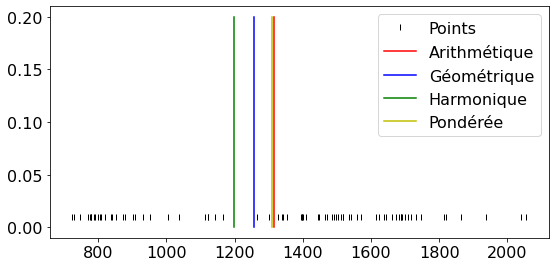
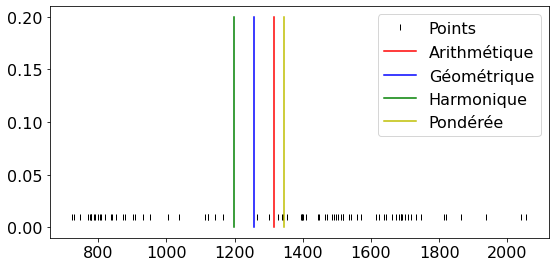
Update documentation

Changed region(s): [[0.4901, 0.0599, 0.5207, 0.839]]

diff --git a/searchindex.js b/searchindex.js
@@ -1,1 +1,1 @@
-Search.setIndex({docnames:["Rappels","Stats","TP1_statsDescriptives","genindex","intro","statsdescriptives"],envversion:{"sphinx.domains.c":2,"sphinx.domains.changeset":1,"sphinx.domains.citation":1,"sphinx.domains.cpp":3,"sphinx.domains.index":1,"sphinx.domains.javascript":2,"sphinx.domains.math":2,"sphinx.domains.python":3,"sphinx.domains.rst":2,"sphinx.domains.std":2,"sphinx.ext.intersphinx":1,"sphinxcontrib.bibtex":7,sphinx:56},filenames:["Rappels.md","Stats.md","TP1_statsDescriptives.ipynb","genindex.md","intro.md","statsdescriptives.md"],objects:{},objnames:{},objtypes:{},terms:{"0":[0,2,5],"0017884644338933538":2,"01":5,"010286405751158675":2,"05":5,"057906794285899":2,"059619131674428574":2,"07":0,"0729570890783":5,"098":0,"1":[0,1,2,5],"10":[0,2,5],"100":2,"1000":5,"10000":0,"103":2,"1040":2,"1041":2,"1042":2,"1043":2,"1044":2,"11":[2,5],"115":2,"1198":5,"12":[0,2,5],"121":0,"122":0,"1258":5,"1308":5,"1315":[],"1316":5,"1399":5,"14":[0,2],"141":5,"142":5,"143":5,"144":5,"1442366834408":[],"15":[0,2],"156":2,"157":2,"158":2,"16":[2,5],"1626":5,"165":2,"166":2,"17":2,"18":2,"183":2,"189":2,"19":2,"190":2,"192":2,"1925":0,"193":2,"1k":5,"2":[0,1,2,5],"20":[0,2,5],"21":2,"219210728503":5,"22278481":2,"24":2,"25":[0,2,5],"2_":5,"2_n":5,"2_p":5,"2_y":5,"2d":5,"2x_":5,"3":[0,2,5],"30":0,"3086347078017":5,"326538085935":5,"327":5,"33":2,"35":5,"36":0,"374":5,"390":2,"391":2,"392":2,"393":2,"394":2,"395":2,"3log_":5,"4":[0,2,5],"4074859619113":5,"428":0,"4656915004233":5,"4787575642572":5,"4th":2,"5":[0,2,5],"50":[0,5],"529":2,"530":2,"531":2,"532":2,"55":0,"5723639541368":5,"5mm":0,"5th":2,"6":[0,2,5],"6323880713503":5,"66320800781":5,"67":2,"69":2,"7":[0,2,5],"70":0,"720":5,"738":5,"75":[2,5],"77721519":2,"8":[2,5],"80":5,"82":2,"87":2,"9":2,"90":2,"905":5,"9190521240237":5,"95":5,"96":2,"9th":2,"\u00e0":[0,1,2,5],"\u00e2ge":5,"\u00e9cart":[0,5],"\u00e9chantillon":[1,5],"\u00e9chell":5,"\u00e9cole":2,"\u00e9crire":0,"\u00e9crit":5,"\u00e9ducat":2,"\u00e9gal":0,"\u00e9gale":[0,5],"\u00e9galement":[0,1,5],"\u00e9galit\u00e9":0,"\u00e9l\u00e8ve":[2,5],"\u00e9l\u00e9ment":[0,2],"\u00e9l\u00e9mentair":0,"\u00e9lection":1,"\u00e9lev\u00e9":5,"\u00e9quivalent":0,"\u00e9t\u00e9":[1,5],"\u00e9tablir":5,"\u00e9taient":5,"\u00e9tait":5,"\u00e9tant":[2,5],"\u00e9tape":1,"\u00e9tendu":5,"\u00e9tude":[1,5],"\u00e9tudi":5,"\u00e9tudiant":[2,5],"\u00e9tudier":5,"\u00e9v\u00e8nement":1,"\u00e9v\u00e9nement":1,"\u00e9valuer":5,"\u00e9videm":[0,5],"\u00e9videnc":5,"\u00eatre":[0,1,5],"abord\u00e9":5,"achet\u00e9":0,"ad\u00e9quat":1,"adapt\u00e9":[0,2],"adopt\u00e9":1,"agr\u00e9g\u00e9":5,"ajust\u00e9":5,"al\u00e9atoir":5,"align\u00e9":5,"allong\u00e9":5,"analys\u00e9":5,"appara\u00eet":5,"appel\u00e9":[0,1,5],"appr\u00e9cier":5,"approxim\u00e9":1,"apr\u00e8":[0,1],"arithm\u00e9tiqu":[0,5],"assiduit\u00e9":5,"assimil\u00e9":5,"associ\u00e9":[0,1,2],"asym\u00e9tri":0,"b\u00e2tonnet":5,"bay\u00e9sien":1,"bay\u00e9sienn":0,"besan\u00e7on":0,"biais\u00e9":5,"bienaym\u00e9":0,"bo\u00eet":[2,5],"bor\u00e9lienn":0,"bri\u00e8vement":1,"c\u00f4te":0,"calcul\u00e9":[0,5],"caract\u00e8r":[1,5],"caract\u00e9ris\u00e9":0,"caract\u00e9ristiqu":[1,2],"cardinalit\u00e9":[0,1],"carr\u00e9":[0,5],"case":5,"cat\u00e9gori":5,"centr\u00e9":5,"class":5,"cod\u00e9":5,"compos\u00e9":[0,5],"conna\u00eetr":5,"consid\u00e8r":0,"consid\u00e9r":[0,5],"consid\u00e9r\u00e9":[0,5],"constitu\u00e9":5,"corr\u00e9lat":2,"cuill\u00e9r\u00e9":1,"cumul\u00e9":[2,5],"d\u00e9":0,"d\u00e9cide":1,"d\u00e9cision":1,"d\u00e9compos":1,"d\u00e9composit":5,"d\u00e9coup\u00e9":5,"d\u00e9crire":[1,5],"d\u00e9crit":5,"d\u00e9crite":[2,5],"d\u00e9crivant":2,"d\u00e9croissant":5,"d\u00e9duir":[0,2],"d\u00e9fini":[0,5],"d\u00e9finir":[1,5],"d\u00e9finit":1,"d\u00e9nombrabl":[0,5],"d\u00e9nombrer":0,"d\u00e9nonc\u00e9":1,"d\u00e9pass":0,"d\u00e9pass\u00e9":5,"d\u00e9passer":5,"d\u00e9pend":[0,5],"d\u00e9pendanc":5,"d\u00e9pendent":5,"d\u00e9pendr":5,"d\u00e9rive":5,"d\u00e9sign\u00e9":5,"d\u00e9termin":5,"d\u00e9velopp":5,"degr\u00e9":5,"densit\u00e9":[0,5],"diff\u00e9renc":5,"diff\u00e9rent":[0,1,2,5],"discr\u00e8t":0,"divis\u00e9":5,"donn\u00e9":[0,1,2,5],"effectu\u00e9":0,"engendr\u00e9":0,"esp\u00e9ranc":5,"estim\u00e9":1,"exp\u00e9rienc":1,"exp\u00e9riment":1,"exprim\u00e9":5,"extr\u00e9mal":5,"extr\u00e9mit\u00e9":5,"fabriqu\u00e9":0,"fiabilit\u00e9":5,"final":[1,5],"float":5,"fond\u00e9":5,"fr\u00e9quenc":[1,2,5],"fran\u00e7ai":0,"g\u00e9n\u00e9ralement":[0,5],"g\u00e9n\u00e9ralis":[0,5],"g\u00e9om\u00e9triqu":5,"g\u00e9raud":2,"go\u00fbt":1,"group\u00e9":5,"hypoth\u00e8s":5,"id\u00e9":[1,5],"import":[0,2,5],"in\u00e9galit\u00e9":0,"ind\u00e9pend":[2,5],"ind\u00e9pendant":[2,5],"inexpliqu\u00e9":5,"inf\u00e9rentiel":1,"inf\u00e9rer":1,"inf\u00e9rieur":[0,5],"int\u00e8grent":0,"int\u00e9gral":0,"int\u00e9r\u00eat":[1,5],"int\u00e9ress":[0,1,2,5],"int\u00e9ress\u00e9":0,"int\u00e9resson":5,"int\u00e9rieur":5,"interm\u00e9diair":5,"interpr\u00e8t":5,"interpr\u00e9t":[0,1],"interpr\u00e9t\u00e9":0,"l\u00e0":5,"lanc\u00e9":0,"li\u00e9e":[2,5],"libert\u00e9":5,"limit\u00e9":5,"lin\u00e9air":[1,5],"long":5,"m\u00e8re":2,"m\u00e9nage":5,"m\u00e9sokurtiqu":5,"m\u00e9thode":5,"m\u00e9thodologi":1,"m\u00eame":[1,5],"majorit\u00e9":5,"mani\u00e8r":[0,1,2,5],"mat\u00e9rialis":5,"mat\u00e9rialis\u00e9":5,"math\u00e9matiqu":2,"mesur\u00e9":[1,5],"mod\u00e8l":1,"mod\u00e9lis":1,"modalit\u00e9":[2,5],"n\u00e9":1,"n\u00e9anmoin":[1,5],"n\u00e9cessair":5,"n\u00e9cessit":5,"n\u00e9gatif":5,"n\u00e9gativ":5,"norm\u00e9":0,"normalis\u00e9":5,"not\u00e9":[0,1,5],"null":[0,5],"num\u00e9riqu":5,"o\u00f9":[0,5],"observ\u00e9":[1,5],"op\u00e9rant":5,"ordonn\u00e9":5,"p\u00e9tunia":2,"param\u00e8tr":1,"particuli\u00e8r":5,"pi\u00e8c":0,"pond\u00e9r\u00e9":[0,5],"pr\u00e8":5,"pr\u00e9c\u00e9dent":0,"pr\u00e9cis\u00e9ment":5,"pr\u00e9cise":1,"pr\u00e9ciser":0,"pr\u00e9cision":5,"pr\u00e9domin":5,"pr\u00e9dominant":5,"pr\u00e9l\u00e8ve":1,"pr\u00e9lev\u00e9":5,"pr\u00e9sent\u00e9":1,"pr\u00e9voir":0,"premi\u00e8r":[2,5],"probabilis\u00e9":[0,1],"probabilit\u00e9":5,"probl\u00e8m":5,"proc\u00e8d":5,"propos\u00e9":1,"propri\u00e9t\u00e9":[0,1,5],"quantit\u00e9":[0,5],"r\u00e8gle":[1,5],"r\u00e9alis":[0,5],"r\u00e9alis\u00e9":0,"r\u00e9cup\u00e9rer":2,"r\u00e9duit":[0,1,5],"r\u00e9ell":0,"r\u00e9f\u00e9renc":5,"r\u00e9gression":[1,5],"r\u00e9p\u00e9t\u00e9e":[0,1],"r\u00e9p\u00e9tabl":1,"r\u00e9p\u00e9tant":1,"r\u00e9partit":[2,5],"r\u00e9pond":0,"r\u00e9sidu":5,"r\u00e9sultant":5,"r\u00e9sultat":[0,1],"r\u00e9sum\u00e9":5,"r\u00e9sumant":1,"r\u00e9ussit":2,"rattach\u00e9":0,"regroup\u00e9":5,"remplac\u00e9":5,"remu\u00e9":1,"repr\u00e9sent":[0,2,5],"repr\u00e9sent\u00e9":5,"return":[0,2,5],"s\u00e9par\u00e9ment":5,"sal\u00e9":1,"septi\u00e8m":2,"simplicit\u00e9":5,"simultan\u00e9":5,"situ\u00e9":0,"stratifi\u00e9":1,"sup\u00e9rieur":5,"suppl\u00e9mentair":0,"sylv\u00e8r":2,"sym\u00e9tri":5,"sym\u00e9triqu":5,"synth\u00e9tison":1,"syst\u00e8m":0,"th\u00e9odul":2,"th\u00e9or\u00e8m":[1,5],"th\u00e9ori":[0,1],"th\u00e9oriqu":[2,5],"th\u00e9r\u00e8se":2,"tr\u00e8":[1,5],"tri\u00e9e":5,"troisi\u00e8m":5,"true":5,"unit\u00e9":5,"utilis\u00e9":1,"v\u00e9rifi\u00e9":5,"v\u00e9rifiant":0,"variabilit\u00e9":5,"visualis\u00e9":5,A:[1,2,5],In:2,On:[0,1,2,5],Or:5,_1:5,_:[0,5],__name__:5,_datasourc:2,_file_open:2,_i:5,_is_string_lik:2,_j:5,_w:5,a_i:[0,5],a_j:5,a_p:5,ab:5,aberr:5,abord:5,absenc:[2,5],abstrait:5,accord:5,address:2,adept:1,affich:2,affichag:5,affirm:5,afin:1,ag:2,agit:5,ainsi:[0,5],air:5,ajout:[1,5],ajust:1,alain:2,algorithm:5,alor:[0,1,5],alpha:5,alphons:2,amien:0,amplitud:5,analys:1,annot:5,annotate_boxplot:5,annotate_param:5,aplatiss:5,apparit:5,apparten:5,appel:[0,1,5],applatiss:0,applic:0,appliqueront:5,approch:[0,5],approximativ:5,appui:1,appuy:[1,5],arang:[0,5],archibald:2,arithmeticmean:5,arrai:[2,5],arrondi:5,arrowprop:5,arrowstyl:5,assert:0,assez:1,assist:5,associ:[0,1,5],asymmetri:5,at_hom:2,ateli:0,atteint:[0,5],au:[0,1,5],aurait:5,aussi:5,autant:5,autour:5,autr:[0,5],aux:[4,5],avait:5,avec:[0,1,2,5],averag:5,avoir:[0,1,5],ax:0,axi:[2,5],axiom:0,ayant:1,b:[0,5],b_1:0,b_2:0,b_3:0,b_i:0,b_k:0,bar:[0,5],barr:5,basil:2,begin:[2,5],best:5,beta_2:5,bien:[0,1,5],bigcap:0,bigcap_:0,bigcup:0,bigcup_i:0,bin:5,bin_height:5,bin_left:5,bin_max:5,bin_min:5,bin_width:5,binsiz:5,bivarie:2,black:5,bloc:5,boit:2,boldsymbol:5,born:5,bottom:0,boulon:0,box:5,boxplot:[2,5],bpdict:5,branch:1,bx:5,bx_i:5,c:[0,1,2,5],c_j:5,ca:[0,1],cadr:1,calcul:[0,1,2,5],call:2,cancer:0,cap:[0,5],cap_ia_i:0,card:5,casserol:1,ccccc:5,cdot:[0,5],ce:[0,1,2,5],ceci:5,cela:5,cell:[1,5],central:[0,1,5],cepend:5,certain:[0,1,5],cet:5,cett:[0,1,2,5],ceux:5,ch:5,chacun:[2,5],chanc:0,chapitr:5,chaqu:[0,2,5],cherch:[0,1,5],chercher:5,chi2:2,chi:[1,2,5],choisit:0,choix:[1,2,5],ci:5,citon:5,classiqu:5,clermont:0,code:2,coeffici:0,collect:5,colonn:[2,5],color:[0,5],column:2,comm:[1,5],comment:[1,2],compar:5,comparaison:5,complet:0,comprendr:[1,5],compri:5,compt:[0,5],comptag:5,concern:[0,1],conclus:2,condit:[0,1],conditionnel:5,confianc:[1,5],consist:[0,1,5],construct:5,construir:2,construit:5,contient:1,conting:[2,5],continu:[0,1],contrair:0,contribut:5,converg:0,convert:2,correspond:[1,5],couleur:5,count:5,coupl:5,cour:5,court:5,covari:2,cramer:5,critiqu:5,croissant:[0,5],csv:[2,5],cuisini:1,cumsum:0,cup:[0,5],cup_ia_i:0,d1:0,d2:0,d:[1,2],d_j:5,dalc:2,dan:[0,1,5],dash:0,data:[0,5],datasourc:2,def:[0,5],dehor:5,delimit:[2,5],delta:5,dernier:5,descript:[1,4],dessin:5,destpath:2,deux:[0,1,2],devient:[1,5],diaconi:5,diagonal:5,diagonaux:5,diagramm:[0,5],dichotomi:1,dict:5,difficil:1,dimens:0,dira:0,dire:0,direct:[0,5],discontinu:5,discret:[1,5],disjoint:0,dispers:[0,2],displaystyl:[0,5],dispon:[1,5],distanc:2,distinct:5,distingu:5,distribut:[0,5],dit:[0,5],dite:[0,5],divis:5,doit:5,domain:5,donc:[0,1,5],donn:[2,5],donner:[0,1,2],donneront:1,dont:[0,1,5],dot:5,droit:[0,5],ds:2,dtype:2,du:[0,1,2,5],dure:0,dx:0,e:[0,5],e_:5,e_i:5,echantillon:1,educ:2,effectif:[2,5],effectu:[0,5],effet:[0,1,5],eglantin:2,ell:[0,2,5],els:[2,5],empiriqu:[2,5],emptyset:0,en:[0,1,2,5],encod:2,encor:0,end:[2,5],enfin:1,ensembl:[0,1,5],ensemblist:0,entr:[2,5],entrepris:5,enumer:5,envisag:5,eqnarrai:5,equat:5,erreur:[1,5],espac:[0,5],essay:5,est:[0,1,5],estim:[1,5],et:2,eta:5,etant:0,exact:0,examen:[2,5],exempl:[0,1,5],exist:[0,1,5],experi:0,expliqu:5,exploit:1,exploratoir:[1,5],exponentiel:5,ext:2,f:[0,2,5],f_:5,f_i:5,f_j:5,f_k:5,f_x:0,fabric:0,face:0,facil:5,facteur:5,faibl:[2,5],fair:0,fait:[0,1,5],famil:0,famrel:2,famsiz:2,fantin:2,fauss:[0,5],faut:[0,1],fedu:2,fencod:2,fera:1,ferrand:0,fh:2,fiabl:1,fichier:2,figsiz:[0,2,5],figur:[0,2,5],file:2,filenotfounderror:2,findbin:5,fini:[1,5],fisher:5,fixer:5,fjob:2,floor:0,fn:0,fname:2,foi:[1,5],fonction:[1,2,5],fonctionnel:5,font:5,fontsiz:5,foral:[0,5],form:0,formalis:0,forment:[0,5],former:5,fort:0,found:2,fournit:0,frac12:0,frac16:0,frac72:0,frac:[0,5],freedman:5,freetim:2,from:0,fument:0,fumeur:0,fusionn:2,g1:2,g2:2,g3:2,g:[2,5],g_1:5,g_2:5,gauch:5,gaussienn:5,genr:2,geometricmean:5,geq:[0,5],get_ydata:5,getattr:2,goout:2,gp:2,grade:2,grand:[1,5],grandeur:[0,5],graphiqu:[2,5],group:[1,2,5],gt3:2,h:5,h_j:5,h_k:5,harmonicmean:5,harmoniqu:5,hasard:1,hauteur:5,health:2,height:5,higher:2,histogramm:5,historiqu:1,hline:[0,2,5],hspace:2,huygen:[0,5],i:[0,5],ici:[1,2,5],identiqu:[0,5],ij:5,il:[0,1,5],imag:0,impliqu:0,imposs:[0,1],incertitud:1,inclus:5,incompat:0,index:4,indic:5,indicateur:[2,5],indiqu:5,individu:[1,5],infini:[1,5],inform:[0,1],informel:1,infti:0,input:2,insert:0,int_x:0,inter:5,interpol:5,interval:[1,5],intra:5,iqr:5,isidor:2,iter:2,j1:5,j:5,jean:2,jk:5,job:0,joseph:2,joue:0,jusqu:1,k:5,khi:5,kurtosi:0,l:[0,1,2,5],l_1:5,l_2:5,la:[0,1,2,5],label:5,lancer:0,laquel:1,largeur:5,last:2,latin1:2,lceil:5,ldot:5,le3:2,le:[1,2,5],left:[0,5],legend:5,len:5,leptokurtiqu:5,leq:[0,5],lequel:5,lesquel:5,lettr:5,leur:[0,1,5],liaison:5,lib:2,lie:5,lien:5,lieu:0,lign:5,like:2,limit:1,line_it:2,linestyl:0,ln:5,loadtxt:[2,5],loc:5,local:2,logarithm:5,loi:[0,1,5],longtemp:1,longu:5,lor:0,lorsqu:[0,1,5],m:[2,5],m_2:5,m_3:5,m_4:5,machin:0,mad:5,mai:[0,5],mainten:2,majeur:1,malad:0,marg:5,marginaux:5,marguerit:2,mass:0,math:[0,5],mathbb:[0,5],mathbf:5,matplotlib:[0,2,5],matrix:5,mauricett:2,max:5,max_dev:5,max_row:2,maxdev:5,maximum:5,mean:5,median:5,medu:2,mesur:[1,5],method:5,mettr:5,mid:[0,5],mieux:1,min:5,minimis:5,minimum:5,mjob:2,modal:5,mode:2,modifi:0,modul:2,moin:[0,5],moindr:5,moment:5,monnai:0,monoton:0,montr:5,montrer:5,most:2,moustach:[2,5],moyenn:[0,1],ms:2,mu_x:0,mu_xx:0,multidimensionnel:5,multinomial:5,muni:5,mutuel:0,n:[0,1,2,5],n_:5,n_i:5,n_ix_i:5,n_j:5,n_k:5,natur:[1,5],naturel:1,ndmin:2,ne:[0,1,2,5],neq:5,newlin:2,niveau:[2,5],nom:2,nombr:[0,1,5],nomin:1,non:[0,1,5],none:[2,5],norm:5,normal:5,note:[0,2,5],notion:[0,5],noton:5,nou:[1,5],nouvel:0,np:[0,2,5],npyio:2,nuag:2,nul:5,numpi:[0,2,5],nx_i:5,o:0,ob:[2,5],object:[1,2],objectif:1,observ:[0,1,5],observateur:1,obtenir:[0,1],obtenu:[0,2,5],obtient:5,off:5,offset:5,omega:0,ont:[1,5],open:2,oppos:1,ordin:1,ordr:5,organis:1,orgu:5,orient:1,origin:5,os_fspath:2,other:2,ou:[0,1,2,5],outil:[1,5],ouvert:0,p:[0,5],p_x:0,pa:[0,1,5],packag:2,pair:[0,5],palier:5,panda:2,par:[0,1,2,5],parfoi:[1,5],parl:[0,5],parmi:5,part:[1,5],parti:[0,5],particuli:[0,5],partir:[0,1,5],partit:0,pass:5,path:2,pd:2,percentil:5,perd:5,permet:5,permett:[1,5],permut:5,pertin:1,petit:[1,5],peut:[0,1,2,5],peuvent:[0,5],phi:[0,5],philemon:2,pile:0,plan:5,platykyrtiqu:5,plot:[0,2,5],plot_hist:5,plt:[0,2,5],plu:[0,1,5],plusieur:[1,2,5],po:5,poid:5,point:[0,1,2,5],pointu:5,ponctuel:[0,1],popul:[1,5],pose:1,positif:5,poson:5,possibl:[1,2,5],posteriori:[0,1],poumon:0,pour:[0,1,2,5],pourra:1,pourrait:5,pow:5,pratiqu:[0,1,5],premier:5,prenant:5,prendr:0,prendra:0,prennent:5,primari:2,principal:5,print:[2,5],priori:[0,1,5],prise:[0,5],probabilis:[0,1],probabilist:0,probabl:5,proch:5,prochain:1,prod_:[0,5],product:0,produit:0,profil:5,promot:5,propos:5,proserpin:2,pstatu:2,pu_i:5,puisqu:5,puiss:1,purement:0,py:2,pyplot:[0,2,5],python3:2,q:5,q_1:5,q_2:5,q_3:5,q_i:5,qu:[0,1,5],quad:[0,5],qualitatif:1,quantitatif:1,quartil:5,que:[0,1,2,5],quel:5,quelconqu:0,quell:[0,1,5],quelqu:5,question:[0,1],queue:5,qui:[0,1,2,5],r:[0,2,5],r_:5,racin:[0,5],rais:2,raison:[1,5],rand:5,random:[0,5],rang:[0,5],rapid:1,rappel:4,rapport:[0,5],raymond:2,rceil:5,rcparam:5,read_csv:2,recent:2,recherch:[0,5],rectangl:5,recueilli:1,red:0,ref:5,regard:2,regress:5,regroup:5,rejett:[1,5],rel:5,relat:5,remarqu:5,remarquon:0,remis:1,rencontr:1,rentrant:5,resp:[0,5],respectiv:[0,5],restreignon:5,result:2,right:[0,5],rightarrow:0,risqu:5,robust:5,row:2,rt:2,s:[0,1,2,5],sa:[0,1,5],sachant:0,san:[1,5],satisfact:5,sauc:1,savoir:[1,5],scalair:5,scatter:5,school:2,scienc:1,scott:5,se:[0,1,5],second:5,secondari:2,secteur:5,self:2,selon:[0,1,5],semblabl:1,semi:5,sera:5,serait:5,servic:2,setminu:0,seul:5,seulement:0,sex:2,show:[0,2,5],si:[0,1,5],sidoni:2,sigma:5,sigma_:5,sigma_j:5,sigma_x:[0,5],sign:5,signif:5,significatif:5,similair:5,simpl:[0,5],singleton:0,sinon:5,site:2,situat:5,size:5,skew:0,skiprow:2,snedecor:5,soient:5,soit:[0,5],somm:[0,5],son:5,sondag:1,sont:[0,1,2,5],sort:5,sou:[0,1,5],souvent:[0,1,5],splom:5,sqrt:5,statistiqu:4,strictement:5,student:2,sturg:5,style:5,subdivis:5,subject:1,subjectif:1,subplot:[0,2,5],subplots_adjust:2,subset:0,suffisam:1,suffit:[0,5],suit:[0,1,5],suivant:[0,1,2,5],sum:5,sum_:[0,5],sum_i:0,sum_ip:0,sum_k:0,suppos:[1,2,5],sur:[1,2,5],t:[0,2,5],t_k:5,tabl:5,tableau:[2,5],taill:[0,1,5],tchebychev:0,teacher:2,tel:[1,5],tell:[0,5],temp:5,tendanc:2,term:[1,5],test:[1,5],text_offset_i:5,text_offset_x:5,textcoord:5,textrm:5,tight_layout:5,time:5,tirag:[0,1],titl:[0,2,5],todo:2,total:5,tou:5,toujour:5,tout:[0,1,5],tp:4,traceback:2,tracer:2,traiter:[1,5],transport:0,traver:0,trianglair:5,triangulair:5,troi:[0,5],trop:[2,5],tschuprow:5,tuyau:5,tuyaux:5,txt:2,type:[0,1],u:[2,5],u_1:5,u_p:5,un:[1,2],uniform:1,union:0,uniqu:[0,5],unpack:2,usag:0,usecol:2,usin:0,usr:2,util:5,utilis:[2,5],v:[0,5],valabl:1,valeur:[0,1,5],valu:2,varianc:1,variant:0,variat:[1,5],varient:5,vdot:5,vecteur:[0,5],vectoriel:5,venn:0,via:5,vivent:5,vline:0,voir:5,votant:1,vraie:0,vue:[0,1],w:5,w_i:5,w_ix_i:5,walc:2,weight:5,weightedmean:5,width:5,wspace:2,x:[0,2,5],x_1:5,x_2:5,x_:5,x_i:[0,5],x_ip:0,x_j:5,x_k:5,x_l:5,x_loc:5,x_m:5,x_n:5,x_offset:5,x_p:5,xdp:0,xlabel:2,xmax:0,xmin:0,xy:5,xytext:5,y:[0,2,5],y_1:5,y_:5,y_i:5,y_k:5,ylabel:2,ylim:0,ymax:0,ymin:0,yve:2,z:5,zero:0,zip:5,zorder:0},titles:["Rappels","Introduction aux statistiques","TP Statistiques descriptives","Index","Introduction","Statistique descriptive"],titleterms:{"\u00e9v\u00e8nement":0,"al\u00e9atoir":0,"asym\u00e9tri":5,"bay\u00e9sienn":1,"bivari\u00e9":[2,5],"caract\u00e9ristiqu":0,"centr\u00e9":0,"corr\u00e9lat":5,"d\u00e9finit":[0,5],"d\u00e9march":1,"d\u00e9viation":5,"discr\u00e8t":5,"el\u00e9ment":1,"esp\u00e9ranc":0,"ev\u00e8nement":0,"exp\u00e9rienc":0,"fr\u00e9quentist":1,"g\u00e9n\u00e9rale":1,"ind\u00e9pend":0,"m\u00e9dian":5,"math\u00e9matiqu":0,"monovari\u00e9":2,"multivari\u00e9":5,"op\u00e9rat":0,"param\u00e8tr":5,"probabilit\u00e9":[0,1],"r\u00e8gle":0,"r\u00e9partit":0,"s\u00e9rie":5,"sup\u00e9rieur":0,"th\u00e9or\u00e8m":0,"univari\u00e9":5,A:0,absolu:5,analys:5,approch:1,aux:1,axiomatiqu:0,bay:[0,1],burt:5,ca:[2,5],coeffici:5,concept:0,conditionn:0,conditionnel:0,continu:5,covari:5,d:[0,5],de:[0,1,2,5],descript:[2,5],deux:5,dispers:5,distanc:5,ecart:5,et:[0,1,5],etendu:5,fonction:0,form:5,formul:0,index:3,interquartil:5,introduct:[1,4],issu:0,k:0,koenig:0,kolmogorov:0,kurtosi:5,le:0,matric:5,maximal:5,mesur:0,mesurab:0,mode:5,moment:0,moyen:5,moyenn:5,nominal:5,notat:0,nuag:5,objectif:0,ordinal:5,ordr:0,pearson:5,posit:5,possibl:0,qualit:[2,5],quantil:5,quantit:[2,5],rappel:0,skew:5,statistiqu:[1,2,5],sur:0,t:1,tableaux:5,total:0,tp:2,tribu:0,type:5,typologi:5,un:[0,5],univ:0,variabl:[0,2,5],varianc:[0,5],ver:5,vocabulair:1,yule:5}})
+Search.setIndex({docnames:["Rappels","Stats","TP1_statsDescriptives","genindex","intro","statsdescriptives"],envversion:{"sphinx.domains.c":2,"sphinx.domains.changeset":1,"sphinx.domains.citation":1,"sphinx.domains.cpp":3,"sphinx.domains.index":1,"sphinx.domains.javascript":2,"sphinx.domains.math":2,"sphinx.domains.python":3,"sphinx.domains.rst":2,"sphinx.domains.std":2,"sphinx.ext.intersphinx":1,"sphinxcontrib.bibtex":7,sphinx:56},filenames:["Rappels.md","Stats.md","TP1_statsDescriptives.ipynb","genindex.md","intro.md","statsdescriptives.md"],objects:{},objnames:{},objtypes:{},terms:{"0":[0,2,5],"0017884644338933538":2,"01":5,"010286405751158675":2,"05":5,"057906794285899":2,"059619131674428574":2,"07":0,"0729570890783":5,"098":0,"1":[0,1,2,5],"10":[0,2,5],"100":2,"1000":5,"10000":0,"103":2,"1040":2,"1041":2,"1042":2,"1043":2,"1044":2,"11":[2,5],"115":2,"1198":5,"12":[0,2,5],"121":0,"122":0,"1258":5,"1308":[],"1315":[],"1316":5,"1345":5,"1399":5,"14":[0,2],"141":5,"142":5,"143":5,"144":5,"1442366834408":[],"15":[0,2],"156":2,"157":2,"158":2,"16":[2,5],"1626":5,"165":2,"166":2,"17":2,"18":2,"183":2,"189":2,"19":2,"190":2,"192":2,"1925":0,"193":2,"1k":5,"2":[0,1,2,5],"20":[0,2,5],"21":2,"219210728503":5,"22278481":2,"24":2,"25":[0,2,5],"2_":5,"2_n":5,"2_p":5,"2_y":5,"2d":5,"2x_":5,"3":[0,2,5],"30":0,"3086347078017":5,"326538085935":5,"327":5,"33":2,"35":5,"36":0,"374":5,"390":2,"391":2,"392":2,"393":2,"394":2,"395":2,"3log_":5,"4":[0,2,5],"4074859619113":5,"428":0,"4656915004233":5,"4787575642572":5,"4th":2,"5":[0,2,5],"50":[0,5],"5217064964932":5,"529":2,"530":2,"531":2,"532":2,"55":0,"5723639541368":5,"5mm":0,"5th":2,"6":[0,2,5],"6323880713503":[],"66320800781":5,"67":2,"69":2,"7":[0,2,5],"70":0,"720":5,"738":5,"75":[2,5],"77721519":2,"8":[2,5],"80":5,"82":2,"87":2,"9":2,"90":2,"905":5,"9190521240237":5,"95":5,"96":2,"9th":2,"\u00e0":[0,1,2,5],"\u00e2ge":5,"\u00e9cart":[0,5],"\u00e9chantillon":[1,5],"\u00e9chell":5,"\u00e9cole":2,"\u00e9crire":0,"\u00e9crit":5,"\u00e9ducat":2,"\u00e9gal":0,"\u00e9gale":[0,5],"\u00e9galement":[0,1,5],"\u00e9galit\u00e9":0,"\u00e9l\u00e8ve":[2,5],"\u00e9l\u00e9ment":[0,2],"\u00e9l\u00e9mentair":0,"\u00e9lection":1,"\u00e9lev\u00e9":5,"\u00e9quivalent":0,"\u00e9t\u00e9":[1,5],"\u00e9tablir":5,"\u00e9taient":5,"\u00e9tait":5,"\u00e9tant":[2,5],"\u00e9tape":1,"\u00e9tendu":5,"\u00e9tude":[1,5],"\u00e9tudi":5,"\u00e9tudiant":[2,5],"\u00e9tudier":5,"\u00e9v\u00e8nement":1,"\u00e9v\u00e9nement":1,"\u00e9valuer":5,"\u00e9videm":[0,5],"\u00e9videnc":5,"\u00eatre":[0,1,5],"abord\u00e9":5,"achet\u00e9":0,"ad\u00e9quat":1,"adapt\u00e9":[0,2],"adopt\u00e9":1,"agr\u00e9g\u00e9":5,"ajust\u00e9":5,"al\u00e9atoir":5,"align\u00e9":5,"allong\u00e9":5,"analys\u00e9":5,"appara\u00eet":5,"appel\u00e9":[0,1,5],"appr\u00e9cier":5,"approxim\u00e9":1,"apr\u00e8":[0,1],"arithm\u00e9tiqu":[0,5],"assiduit\u00e9":5,"assimil\u00e9":5,"associ\u00e9":[0,1,2],"asym\u00e9tri":0,"b\u00e2tonnet":5,"bay\u00e9sien":1,"bay\u00e9sienn":0,"besan\u00e7on":0,"biais\u00e9":5,"bienaym\u00e9":0,"bo\u00eet":[2,5],"bor\u00e9lienn":0,"bri\u00e8vement":1,"c\u00f4te":0,"calcul\u00e9":[0,5],"caract\u00e8r":[1,5],"caract\u00e9ris\u00e9":0,"caract\u00e9ristiqu":[1,2],"cardinalit\u00e9":[0,1],"carr\u00e9":[0,5],"case":5,"cat\u00e9gori":5,"centr\u00e9":5,"class":5,"cod\u00e9":5,"compos\u00e9":[0,5],"conna\u00eetr":5,"consid\u00e8r":0,"consid\u00e9r":[0,5],"consid\u00e9r\u00e9":[0,5],"constitu\u00e9":5,"corr\u00e9lat":2,"cuill\u00e9r\u00e9":1,"cumul\u00e9":[2,5],"d\u00e9":0,"d\u00e9cide":1,"d\u00e9cision":1,"d\u00e9compos":1,"d\u00e9composit":5,"d\u00e9coup\u00e9":5,"d\u00e9crire":[1,5],"d\u00e9crit":5,"d\u00e9crite":[2,5],"d\u00e9crivant":2,"d\u00e9croissant":5,"d\u00e9duir":[0,2],"d\u00e9fini":[0,5],"d\u00e9finir":[1,5],"d\u00e9finit":1,"d\u00e9nombrabl":[0,5],"d\u00e9nombrer":0,"d\u00e9nonc\u00e9":1,"d\u00e9pass":0,"d\u00e9pass\u00e9":5,"d\u00e9passer":5,"d\u00e9pend":[0,5],"d\u00e9pendanc":5,"d\u00e9pendent":5,"d\u00e9pendr":5,"d\u00e9rive":5,"d\u00e9sign\u00e9":5,"d\u00e9termin":5,"d\u00e9velopp":5,"degr\u00e9":5,"densit\u00e9":[0,5],"diff\u00e9renc":5,"diff\u00e9rent":[0,1,2,5],"discr\u00e8t":0,"divis\u00e9":5,"donn\u00e9":[0,1,2,5],"effectu\u00e9":0,"engendr\u00e9":0,"esp\u00e9ranc":5,"estim\u00e9":1,"exp\u00e9rienc":1,"exp\u00e9riment":1,"exprim\u00e9":5,"extr\u00e9mal":5,"extr\u00e9mit\u00e9":5,"fabriqu\u00e9":0,"fiabilit\u00e9":5,"final":[1,5],"float":5,"fond\u00e9":5,"fr\u00e9quenc":[1,2,5],"fran\u00e7ai":0,"g\u00e9n\u00e9ralement":[0,5],"g\u00e9n\u00e9ralis":[0,5],"g\u00e9om\u00e9triqu":5,"g\u00e9raud":2,"go\u00fbt":1,"group\u00e9":5,"hypoth\u00e8s":5,"id\u00e9":[1,5],"import":[0,2,5],"in\u00e9galit\u00e9":0,"ind\u00e9pend":[2,5],"ind\u00e9pendant":[2,5],"inexpliqu\u00e9":5,"inf\u00e9rentiel":1,"inf\u00e9rer":1,"inf\u00e9rieur":[0,5],"int\u00e8grent":0,"int\u00e9gral":0,"int\u00e9r\u00eat":[1,5],"int\u00e9ress":[0,1,2,5],"int\u00e9ress\u00e9":0,"int\u00e9resson":5,"int\u00e9rieur":5,"interm\u00e9diair":5,"interpr\u00e8t":5,"interpr\u00e9t":[0,1],"interpr\u00e9t\u00e9":0,"l\u00e0":5,"lanc\u00e9":0,"li\u00e9e":[2,5],"libert\u00e9":5,"limit\u00e9":5,"lin\u00e9air":[1,5],"long":5,"m\u00e8re":2,"m\u00e9nage":5,"m\u00e9sokurtiqu":5,"m\u00e9thode":5,"m\u00e9thodologi":1,"m\u00eame":[1,5],"majorit\u00e9":5,"mani\u00e8r":[0,1,2,5],"mat\u00e9rialis":5,"mat\u00e9rialis\u00e9":5,"math\u00e9matiqu":2,"mesur\u00e9":[1,5],"mod\u00e8l":1,"mod\u00e9lis":1,"modalit\u00e9":[2,5],"n\u00e9":1,"n\u00e9anmoin":[1,5],"n\u00e9cessair":5,"n\u00e9cessit":5,"n\u00e9gatif":5,"n\u00e9gativ":5,"norm\u00e9":0,"normalis\u00e9":5,"not\u00e9":[0,1,5],"null":[0,5],"num\u00e9riqu":5,"o\u00f9":[0,5],"observ\u00e9":[1,5],"op\u00e9rant":5,"ordonn\u00e9":5,"p\u00e9tunia":2,"param\u00e8tr":1,"particuli\u00e8r":5,"pi\u00e8c":0,"pond\u00e9r\u00e9":[0,5],"pr\u00e8":5,"pr\u00e9c\u00e9dent":0,"pr\u00e9cis\u00e9ment":5,"pr\u00e9cise":1,"pr\u00e9ciser":0,"pr\u00e9cision":5,"pr\u00e9domin":5,"pr\u00e9dominant":5,"pr\u00e9l\u00e8ve":1,"pr\u00e9lev\u00e9":5,"pr\u00e9sent\u00e9":1,"pr\u00e9voir":0,"premi\u00e8r":[2,5],"probabilis\u00e9":[0,1],"probabilit\u00e9":5,"probl\u00e8m":5,"proc\u00e8d":5,"propos\u00e9":1,"propri\u00e9t\u00e9":[0,1,5],"quantit\u00e9":[0,5],"r\u00e8gle":[1,5],"r\u00e9alis":[0,5],"r\u00e9alis\u00e9":0,"r\u00e9cup\u00e9rer":2,"r\u00e9duit":[0,1,5],"r\u00e9ell":0,"r\u00e9f\u00e9renc":5,"r\u00e9gression":[1,5],"r\u00e9p\u00e9t\u00e9e":[0,1],"r\u00e9p\u00e9tabl":1,"r\u00e9p\u00e9tant":1,"r\u00e9partit":[2,5],"r\u00e9pond":0,"r\u00e9sidu":5,"r\u00e9sultant":5,"r\u00e9sultat":[0,1],"r\u00e9sum\u00e9":5,"r\u00e9sumant":1,"r\u00e9ussit":2,"rattach\u00e9":0,"regroup\u00e9":5,"remplac\u00e9":5,"remu\u00e9":1,"repr\u00e9sent":[0,2,5],"repr\u00e9sent\u00e9":5,"return":[0,2,5],"s\u00e9par\u00e9ment":5,"sal\u00e9":1,"septi\u00e8m":2,"simplicit\u00e9":5,"simultan\u00e9":5,"situ\u00e9":0,"stratifi\u00e9":1,"sup\u00e9rieur":5,"suppl\u00e9mentair":0,"sylv\u00e8r":2,"sym\u00e9tri":5,"sym\u00e9triqu":5,"synth\u00e9tison":1,"syst\u00e8m":0,"th\u00e9odul":2,"th\u00e9or\u00e8m":[1,5],"th\u00e9ori":[0,1],"th\u00e9oriqu":[2,5],"th\u00e9r\u00e8se":2,"tr\u00e8":[1,5],"tri\u00e9e":5,"troisi\u00e8m":5,"true":5,"unit\u00e9":5,"utilis\u00e9":1,"v\u00e9rifi\u00e9":5,"v\u00e9rifiant":0,"variabilit\u00e9":5,"visualis\u00e9":5,A:[1,2,5],In:2,On:[0,1,2,5],Or:5,_1:5,_:[0,5],__name__:5,_datasourc:2,_file_open:2,_i:5,_is_string_lik:2,_j:5,_w:5,a_i:[0,5],a_j:5,a_p:5,ab:5,aberr:5,abord:5,absenc:[2,5],abstrait:5,accord:5,address:2,adept:1,affich:2,affichag:5,affirm:5,afin:1,ag:2,agit:5,ainsi:[0,5],air:5,ajout:[1,5],ajust:1,alain:2,algorithm:5,alor:[0,1,5],alpha:5,alphons:2,amien:0,amplitud:5,analys:1,annot:5,annotate_boxplot:5,annotate_param:5,aplatiss:5,apparit:5,apparten:5,appel:[0,1,5],applatiss:0,applic:0,appliqueront:5,approch:[0,5],approximativ:5,appui:1,appuy:[1,5],arang:[0,5],archibald:2,arithmeticmean:5,arrai:[2,5],arrondi:5,arrowprop:5,arrowstyl:5,assert:0,assez:1,assist:5,associ:[0,1,5],asymmetri:5,at_hom:2,ateli:0,atteint:[0,5],au:[0,1,5],aurait:5,aussi:5,autant:5,autour:5,autr:[0,5],aux:[4,5],avait:5,avec:[0,1,2,5],averag:5,avoir:[0,1,5],ax:0,axi:[2,5],axiom:0,ayant:1,b:[0,5],b_1:0,b_2:0,b_3:0,b_i:0,b_k:0,bar:[0,5],barr:5,basil:2,begin:[2,5],best:5,beta_2:5,bien:[0,1,5],bigcap:0,bigcap_:0,bigcup:0,bigcup_i:0,bin:5,bin_height:5,bin_left:5,bin_max:5,bin_min:5,bin_width:5,binsiz:5,bivarie:2,black:5,bloc:5,boit:2,boldsymbol:5,born:5,bottom:0,boulon:0,box:5,boxplot:[2,5],bpdict:5,branch:1,bx:5,bx_i:5,c:[0,1,2,5],c_j:5,ca:[0,1],cadr:1,calcul:[0,1,2,5],call:2,cancer:0,cap:[0,5],cap_ia_i:0,card:5,casserol:1,ccccc:5,cdot:[0,5],ce:[0,1,2,5],ceci:5,cela:5,cell:[1,5],central:[0,1,5],cepend:5,certain:[0,1,5],cet:5,cett:[0,1,2,5],ceux:5,ch:5,chacun:[2,5],chanc:0,chapitr:5,chaqu:[0,2,5],cherch:[0,1,5],chercher:5,chi2:2,chi:[1,2,5],choisit:0,choix:[1,2,5],ci:5,citon:5,classiqu:5,clermont:0,code:2,coeffici:0,collect:5,colonn:[2,5],color:[0,5],column:2,comm:[1,5],comment:[1,2],compar:5,comparaison:5,complet:0,comprendr:[1,5],compri:5,compt:[0,5],comptag:5,concern:[0,1],conclus:2,condit:[0,1],conditionnel:5,confianc:[1,5],consist:[0,1,5],construct:5,construir:2,construit:5,contient:1,conting:[2,5],continu:[0,1],contrair:0,contribut:5,converg:0,convert:2,correspond:[1,5],couleur:5,count:5,coupl:5,cour:5,court:5,covari:2,cramer:5,critiqu:5,croissant:[0,5],csv:[2,5],cuisini:1,cumsum:0,cup:[0,5],cup_ia_i:0,d1:0,d2:0,d:[1,2],d_j:5,dalc:2,dan:[0,1,5],dash:0,data:[0,5],datasourc:2,def:[0,5],dehor:5,delimit:[2,5],delta:5,dernier:5,descript:[1,4],dessin:5,destpath:2,deux:[0,1,2],devient:[1,5],diaconi:5,diagonal:5,diagonaux:5,diagramm:[0,5],dichotomi:1,dict:5,difficil:1,dimens:0,dira:0,dire:0,direct:[0,5],discontinu:5,discret:[1,5],disjoint:0,dispers:[0,2],displaystyl:[0,5],dispon:[1,5],distanc:2,distinct:5,distingu:5,distribut:[0,5],dit:[0,5],dite:[0,5],divis:5,doit:5,domain:5,donc:[0,1,5],donn:[2,5],donner:[0,1,2],donneront:1,dont:[0,1,5],dot:5,droit:[0,5],ds:2,dtype:2,du:[0,1,2,5],dure:0,dx:0,e:[0,5],e_:5,e_i:5,echantillon:1,educ:2,effectif:[2,5],effectu:[0,5],effet:[0,1,5],eglantin:2,ell:[0,2,5],els:[2,5],empiriqu:[2,5],emptyset:0,en:[0,1,2,5],encod:2,encor:0,end:[2,5],enfin:1,ensembl:[0,1,5],ensemblist:0,entr:[2,5],entrepris:5,enumer:5,envisag:5,eqnarrai:5,equat:5,erreur:[1,5],espac:[0,5],essay:5,est:[0,1,5],estim:[1,5],et:2,eta:5,etant:0,exact:0,examen:[2,5],exempl:[0,1,5],exist:[0,1,5],experi:0,expliqu:5,exploit:1,exploratoir:[1,5],exponentiel:5,ext:2,f:[0,2,5],f_:5,f_i:5,f_j:5,f_k:5,f_x:0,fabric:0,face:0,facil:5,facteur:5,faibl:[2,5],fair:0,fait:[0,1,5],famil:0,famrel:2,famsiz:2,fantin:2,fauss:[0,5],faut:[0,1],fedu:2,fencod:2,fera:1,ferrand:0,fh:2,fiabl:1,fichier:2,figsiz:[0,2,5],figur:[0,2,5],file:2,filenotfounderror:2,findbin:5,fini:[1,5],fisher:5,fixer:5,fjob:2,floor:0,fn:0,fname:2,foi:[1,5],fonction:[1,2,5],fonctionnel:5,font:5,fontsiz:5,foral:[0,5],form:0,formalis:0,forment:[0,5],former:5,fort:0,found:2,fournit:0,frac12:0,frac16:0,frac72:0,frac:[0,5],freedman:5,freetim:2,from:0,fument:0,fumeur:0,fusionn:2,g1:2,g2:2,g3:2,g:[2,5],g_1:5,g_2:5,gauch:5,gaussienn:5,genr:2,geometricmean:5,geq:[0,5],get_ydata:5,getattr:2,goout:2,gp:2,grade:2,grand:[1,5],grandeur:[0,5],graphiqu:[2,5],group:[1,2,5],gt3:2,h:5,h_j:5,h_k:5,harmonicmean:5,harmoniqu:5,hasard:1,hauteur:5,health:2,height:5,higher:2,histogramm:5,historiqu:1,hline:[0,2,5],hspace:2,huygen:[0,5],i:[0,5],ici:[1,2,5],identiqu:[0,5],ij:5,il:[0,1,5],imag:0,impliqu:0,imposs:[0,1],incertitud:1,inclus:5,incompat:0,index:4,indic:5,indicateur:[2,5],indiqu:5,individu:[1,5],infini:[1,5],inform:[0,1],informel:1,infti:0,input:2,insert:0,int_x:0,inter:5,interpol:5,interval:[1,5],intra:5,iqr:5,isidor:2,iter:2,j1:5,j:5,jean:2,jk:5,job:0,joseph:2,joue:0,jusqu:1,k:5,khi:5,kurtosi:0,l:[0,1,2,5],l_1:5,l_2:5,la:[0,1,2,5],label:5,lancer:0,laquel:1,largeur:5,last:2,latin1:2,lceil:5,ldot:5,le3:2,le:[1,2,5],left:[0,5],legend:5,len:5,leptokurtiqu:5,leq:[0,5],lequel:5,lesquel:5,lettr:5,leur:[0,1,5],liaison:5,lib:2,lie:5,lien:5,lieu:0,lign:5,like:2,limit:1,line_it:2,linestyl:0,ln:5,loadtxt:[2,5],loc:5,local:2,logarithm:5,loi:[0,1,5],longtemp:1,longu:5,lor:0,lorsqu:[0,1,5],m:[2,5],m_2:5,m_3:5,m_4:5,machin:0,mad:5,mai:[0,5],mainten:2,majeur:1,malad:0,marg:5,marginaux:5,marguerit:2,mass:0,math:[0,5],mathbb:[0,5],mathbf:5,matplotlib:[0,2,5],matrix:5,mauricett:2,max:5,max_dev:5,max_row:2,maxdev:5,maximum:5,mean:5,median:5,medu:2,mesur:[1,5],method:5,mettr:5,mid:[0,5],mieux:1,min:5,minimis:5,minimum:5,mjob:2,modal:5,mode:2,modifi:0,modul:2,moin:[0,5],moindr:5,moment:5,monnai:0,monoton:0,montr:5,montrer:5,most:2,moustach:[2,5],moyenn:[0,1],ms:2,mu_x:0,mu_xx:0,multidimensionnel:5,multinomial:5,muni:5,mutuel:0,n:[0,1,2,5],n_:5,n_i:5,n_ix_i:5,n_j:5,n_k:5,natur:[1,5],naturel:1,ndmin:2,ne:[0,1,2,5],neq:5,newlin:2,niveau:[2,5],nom:2,nombr:[0,1,5],nomin:1,non:[0,1,5],none:[2,5],norm:5,normal:5,note:[0,2,5],notion:[0,5],noton:5,nou:[1,5],nouvel:0,np:[0,2,5],npyio:2,nuag:2,nul:5,numpi:[0,2,5],nx_i:5,o:0,ob:[2,5],object:[1,2],objectif:1,observ:[0,1,5],observateur:1,obtenir:[0,1],obtenu:[0,2,5],obtient:5,off:5,offset:5,omega:0,ont:[1,5],open:2,oppos:1,ordin:1,ordr:5,organis:1,orgu:5,orient:1,origin:5,os_fspath:2,other:2,ou:[0,1,2,5],outil:[1,5],ouvert:0,p:[0,5],p_x:0,pa:[0,1,5],packag:2,pair:[0,5],palier:5,panda:2,par:[0,1,2,5],parfoi:[1,5],parl:[0,5],parmi:5,part:[1,5],parti:[0,5],particuli:[0,5],partir:[0,1,5],partit:0,pass:5,path:2,pd:2,percentil:5,perd:5,permet:5,permett:[1,5],permut:5,pertin:1,petit:[1,5],peut:[0,1,2,5],peuvent:[0,5],phi:[0,5],philemon:2,pile:0,plan:5,platykyrtiqu:5,plot:[0,2,5],plot_hist:5,plt:[0,2,5],plu:[0,1,5],plusieur:[1,2,5],po:5,poid:5,point:[0,1,2,5],pointu:5,ponctuel:[0,1],popul:[1,5],pose:1,positif:5,poson:5,possibl:[1,2,5],posteriori:[0,1],poumon:0,pour:[0,1,2,5],pourra:1,pourrait:5,pow:5,pratiqu:[0,1,5],premier:5,prenant:5,prendr:0,prendra:0,prennent:5,primari:2,principal:5,print:[2,5],priori:[0,1,5],prise:[0,5],probabilis:[0,1],probabilist:0,probabl:5,proch:5,prochain:1,prod_:[0,5],product:0,produit:0,profil:5,promot:5,propos:5,proserpin:2,pstatu:2,pu_i:5,puisqu:5,puiss:1,purement:0,py:2,pyplot:[0,2,5],python3:2,q:5,q_1:5,q_2:5,q_3:5,q_i:5,qu:[0,1,5],quad:[0,5],qualitatif:1,quantitatif:1,quartil:5,que:[0,1,2,5],quel:5,quelconqu:0,quell:[0,1,5],quelqu:5,question:[0,1],queue:5,qui:[0,1,2,5],r:[0,2,5],r_:5,racin:[0,5],rais:2,raison:[1,5],rand:5,random:[0,5],rang:[0,5],rapid:1,rappel:4,rapport:[0,5],raymond:2,rceil:5,rcparam:5,read_csv:2,recent:2,recherch:[0,5],rectangl:5,recueilli:1,red:0,ref:5,regard:2,regress:5,regroup:5,rejett:[1,5],rel:5,relat:5,remarqu:5,remarquon:0,remis:1,rencontr:1,rentrant:5,resp:[0,5],respectiv:[0,5],restreignon:5,result:2,right:[0,5],rightarrow:0,risqu:5,robust:5,row:2,rt:2,s:[0,1,2,5],sa:[0,1,5],sachant:0,san:[1,5],satisfact:5,sauc:1,savoir:[1,5],scalair:5,scatter:5,school:2,scienc:1,scott:5,se:[0,1,5],second:5,secondari:2,secteur:5,self:2,selon:[0,1,5],semblabl:1,semi:5,sera:5,serait:5,servic:2,setminu:0,seul:5,seulement:0,sex:2,show:[0,2,5],si:[0,1,5],sidoni:2,sigma:5,sigma_:5,sigma_j:5,sigma_x:[0,5],sign:5,signif:5,significatif:5,similair:5,simpl:[0,5],singleton:0,sinon:5,site:2,situat:5,size:5,skew:0,skiprow:2,snedecor:5,soient:5,soit:[0,5],somm:[0,5],son:5,sondag:1,sont:[0,1,2,5],sort:5,sou:[0,1,5],souvent:[0,1,5],splom:5,sqrt:5,statistiqu:4,strictement:5,student:2,sturg:5,style:5,subdivis:5,subject:1,subjectif:1,subplot:[0,2,5],subplots_adjust:2,subset:0,suffisam:1,suffit:[0,5],suit:[0,1,5],suivant:[0,1,2,5],sum:5,sum_:[0,5],sum_i:0,sum_ip:0,sum_k:0,suppos:[1,2,5],sur:[1,2,5],t:[0,2,5],t_k:5,tabl:5,tableau:[2,5],taill:[0,1,5],tchebychev:0,teacher:2,tel:[1,5],tell:[0,5],temp:5,tendanc:2,term:[1,5],test:[1,5],text_offset_i:5,text_offset_x:5,textcoord:5,textrm:5,tight_layout:5,time:5,tirag:[0,1],titl:[0,2,5],todo:2,total:5,tou:5,toujour:5,tout:[0,1,5],tp:4,traceback:2,tracer:2,traiter:[1,5],transport:0,traver:0,trianglair:5,triangulair:5,troi:[0,5],trop:[2,5],tschuprow:5,tuyau:5,tuyaux:5,txt:2,type:[0,1],u:[2,5],u_1:5,u_p:5,un:[1,2],uniform:1,union:0,uniqu:[0,5],unpack:2,usag:0,usecol:2,usin:0,usr:2,util:5,utilis:[2,5],v:[0,5],valabl:1,valeur:[0,1,5],valu:2,varianc:1,variant:0,variat:[1,5],varient:5,vdot:5,vecteur:[0,5],vectoriel:5,venn:0,via:5,vivent:5,vline:0,voir:5,votant:1,vraie:0,vue:[0,1],w:5,w_i:5,w_ix_i:5,walc:2,weight:5,weightedmean:5,width:5,wspace:2,x:[0,2,5],x_1:5,x_2:5,x_:5,x_i:[0,5],x_ip:0,x_j:5,x_k:5,x_l:5,x_loc:5,x_m:5,x_n:5,x_offset:5,x_p:5,xdp:0,xlabel:2,xmax:0,xmin:0,xy:5,xytext:5,y:[0,2,5],y_1:5,y_:5,y_i:5,y_k:5,ylabel:2,ylim:0,ymax:0,ymin:0,yve:2,z:5,zero:0,zip:5,zorder:0},titles:["Rappels","Introduction aux statistiques","TP Statistiques descriptives","Index","Introduction","Statistique descriptive"],titleterms:{"\u00e9v\u00e8nement":0,"al\u00e9atoir":0,"asym\u00e9tri":5,"bay\u00e9sienn":1,"bivari\u00e9":[2,5],"caract\u00e9ristiqu":0,"centr\u00e9":0,"corr\u00e9lat":5,"d\u00e9finit":[0,5],"d\u00e9march":1,"d\u00e9viation":5,"discr\u00e8t":5,"el\u00e9ment":1,"esp\u00e9ranc":0,"ev\u00e8nement":0,"exp\u00e9rienc":0,"fr\u00e9quentist":1,"g\u00e9n\u00e9rale":1,"ind\u00e9pend":0,"m\u00e9dian":5,"math\u00e9matiqu":0,"monovari\u00e9":2,"multivari\u00e9":5,"op\u00e9rat":0,"param\u00e8tr":5,"probabilit\u00e9":[0,1],"r\u00e8gle":0,"r\u00e9partit":0,"s\u00e9rie":5,"sup\u00e9rieur":0,"th\u00e9or\u00e8m":0,"univari\u00e9":5,A:0,absolu:5,analys:5,approch:1,aux:1,axiomatiqu:0,bay:[0,1],burt:5,ca:[2,5],coeffici:5,concept:0,conditionn:0,conditionnel:0,continu:5,covari:5,d:[0,5],de:[0,1,2,5],descript:[2,5],deux:5,dispers:5,distanc:5,ecart:5,et:[0,1,5],etendu:5,fonction:0,form:5,formul:0,index:3,interquartil:5,introduct:[1,4],issu:0,k:0,koenig:0,kolmogorov:0,kurtosi:5,le:0,matric:5,maximal:5,mesur:0,mesurab:0,mode:5,moment:0,moyen:5,moyenn:5,nominal:5,notat:0,nuag:5,objectif:0,ordinal:5,ordr:0,pearson:5,posit:5,possibl:0,qualit:[2,5],quantil:5,quantit:[2,5],rappel:0,skew:5,statistiqu:[1,2,5],sur:0,t:1,tableaux:5,total:0,tp:2,tribu:0,type:5,typologi:5,un:[0,5],univ:0,variabl:[0,2,5],varianc:[0,5],ver:5,vocabulair:1,yule:5}})

diff --git a/TP1_statsDescriptives.html b/TP1_statsDescriptives.html
@@ -430,30 +430,30 @@ title="Print to PDF"
 <div class="section" id="statistique-monovariee">
 <h2>Statistique monovariée<a class="headerlink" href="#statistique-monovariee" title="Permalink to this headline">#</a></h2>
 <p>Le tableau suivant donne les notes (sur 10) obtenues à un examen par un groupe d’élèves.
-\begin{array}{c|c}
-Nom &amp; Note \
-\hline
-Alain &amp;6\
-Raymond &amp;5\
-Jean-Joseph &amp;9\
-Eglantine &amp;3\
-Isidore &amp;3\
-Mauricette &amp;1\
-Sylvère &amp;9\
-Pétunia &amp;6\
-Philemon &amp;5\
-Archibald &amp;6\
-Théodule &amp;5\
-Marguerite &amp;6\
-Proserpine &amp;5\
-Alphonse &amp;7\
-Géraud &amp;5\
-Basile &amp;10\
-Fantine &amp;2\
-Sidonie &amp;1\
-Thérèse &amp;1\
+<span class="math notranslate nohighlight">\(\begin{array}{c|c}
+Nom &amp; Note \\
+  \hline
+Alain &amp;6\\
+Raymond &amp;5\\
+Jean-Joseph &amp;9\\
+Eglantine &amp;3\\
+Isidore &amp;3\\
+Mauricette &amp;1\\
+Sylvère &amp;9\\
+Pétunia &amp;6\\
+Philemon &amp;5\\
+Archibald &amp;6\\
+Théodule &amp;5\\
+Marguerite &amp;6\\
+Proserpine &amp;5\\
+Alphonse &amp;7\\
+Géraud &amp;5\\
+Basile &amp;10\\
+Fantine &amp;2\\
+Sidonie &amp;1\\
+Thérèse &amp;1\\
 Yves &amp;1
-\end{array}</p>
+\end{array}\)</span></p>
 <div class="cell docutils container">
 <div class="cell_input docutils container">
 <div class="highlight-ipython3 notranslate"><div class="highlight"><pre><span></span><span class="n">notes</span> <span class="o">=</span> <span class="n">np</span><span class="o">.</span><span class="n">array</span><span class="p">([</span><span class="mi">6</span><span class="p">,</span> <span class="mi">5</span><span class="p">,</span> <span class="mi">9</span><span class="p">,</span> <span class="mi">3</span><span class="p">,</span> <span class="mi">3</span><span class="p">,</span> <span class="mi">1</span><span class="p">,</span> <span class="mi">9</span><span class="p">,</span> <span class="mi">6</span><span class="p">,</span> <span class="mi">5</span><span class="p">,</span> <span class="mi">6</span><span class="p">,</span> <span class="mi">5</span><span class="p">,</span> <span class="mi">6</span><span class="p">,</span> <span class="mi">5</span><span class="p">,</span> <span class="mi">7</span><span class="p">,</span> <span class="mi">5</span><span class="p">,</span> <span class="mi">10</span><span class="p">,</span> <span class="mi">2</span><span class="p">,</span> <span class="mi">1</span><span class="p">,</span> <span class="mi">1</span><span class="p">,</span> <span class="mi">1</span><span class="p">])</span>

diff --git a/statsdescriptives.html b/statsdescriptives.html
@@ -803,7 +803,7 @@ F_{j-1}+\frac{f_j}{c^+_j-c^-_j}(x-c^-_j) &amp;\textrm{ si}&amp; x\in[c^-_j,c^+_j
 <div class="output stream highlight-myst-ansi notranslate"><div class="highlight"><pre><span></span>ArithmeticMean  :  1316.3086347078017
 GeometricMean  :  1258.4787575642572
 HarmonicMean  :  1198.219210728503
-WeightedMean  :  1308.6323880713503
+WeightedMean  :  1345.5217064964932
 </pre></div>
 </div>
 <img alt="_images/statsdescriptives_3_1.png" src="_images/statsdescriptives_3_1.png" />
